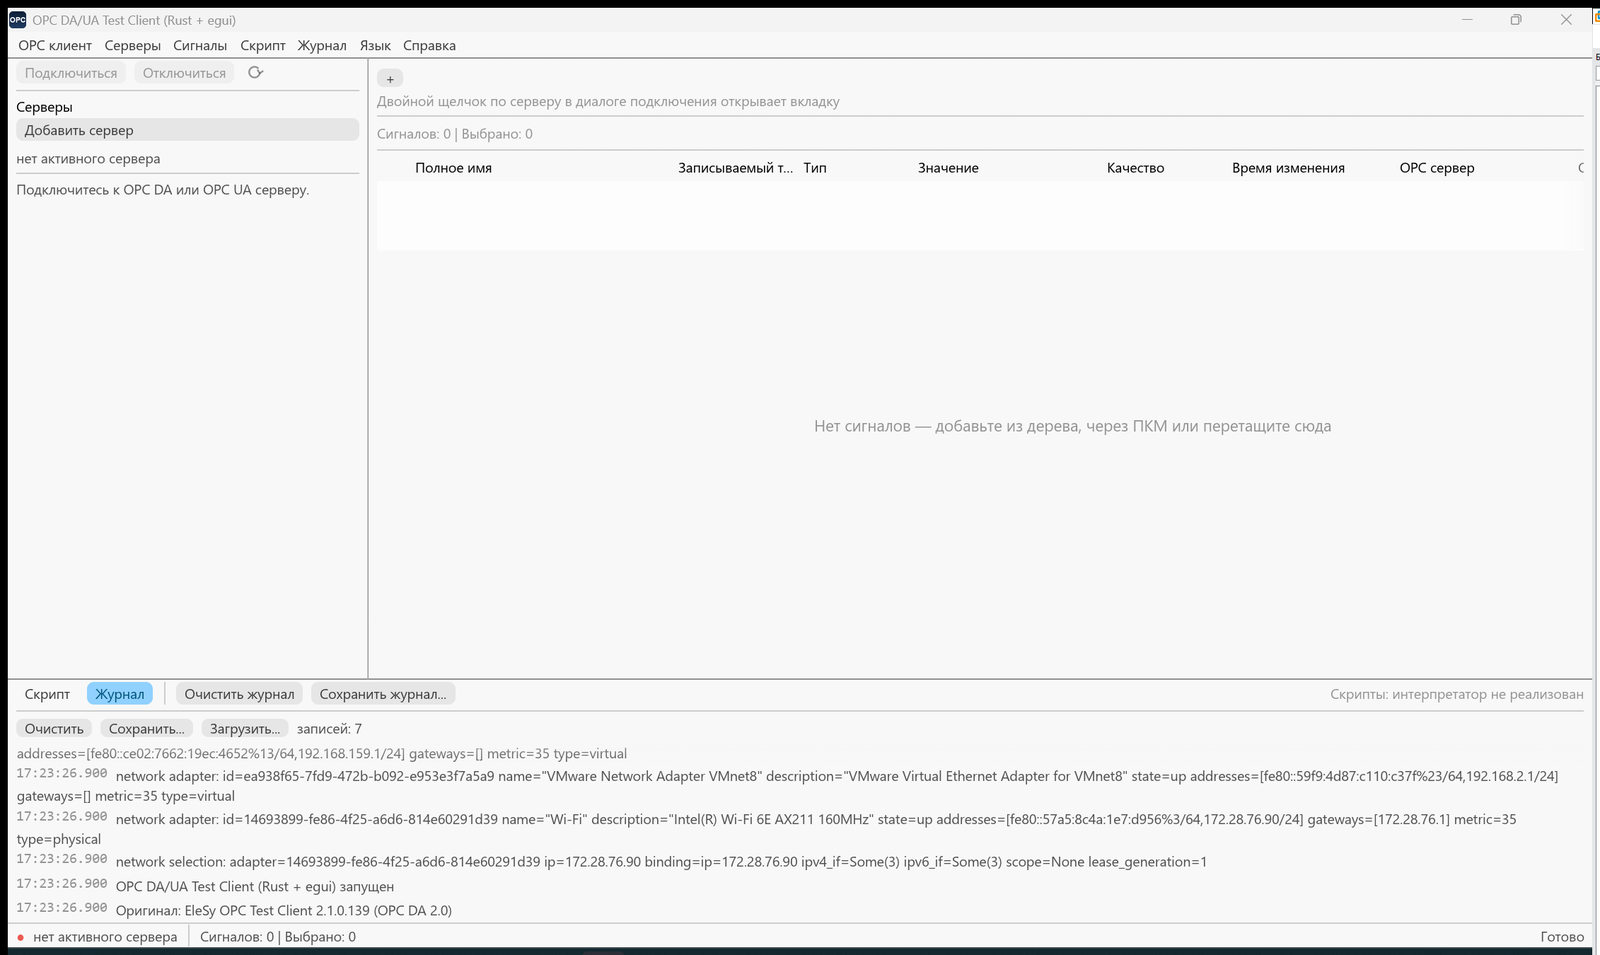
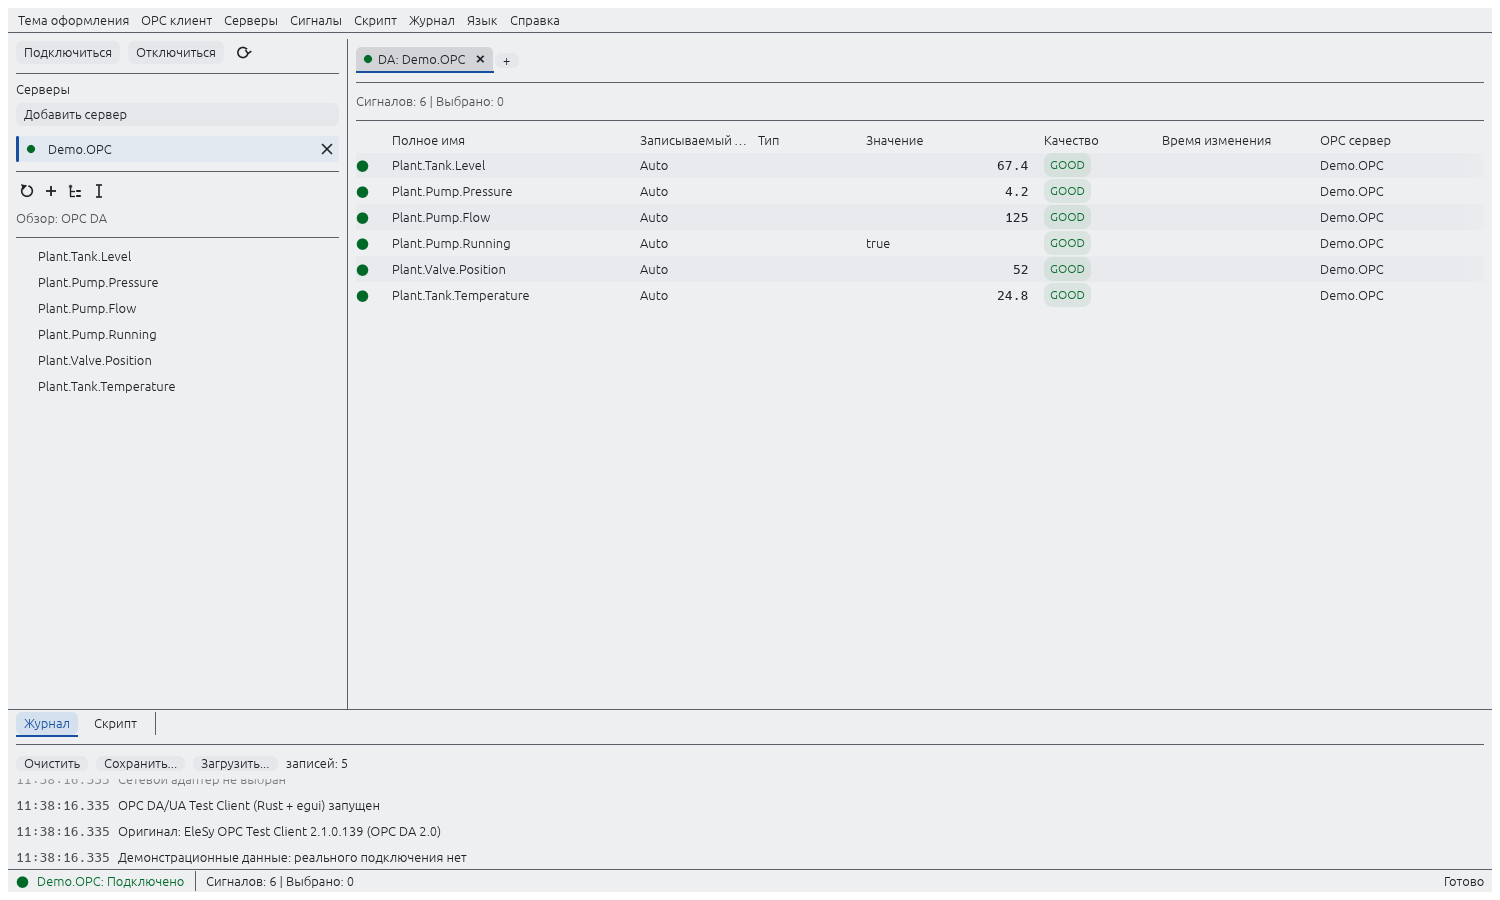
DOCS: refresh README application screenshot

diff --git a/tests/readme_screenshot.rs b/tests/readme_screenshot.rs
@@ -1,0 +1,72 @@
+#![cfg(feature = "ui-snapshots")]
+//! Reproducible README image: the app is rendered with synthetic fixture data.
+use egui_kittest::Harness;
+use opcda_egui::app::App;
+use opcda_egui::bff::model::{BrowseNode, EndpointSpec, NodeKind, SessionId, Value};
+use opcda_egui::i18n::Lang;
+use opcda_egui::settings::Theme;
+
+#[test]
+#[ignore = "manual visual QA requiring a headless wgpu renderer"]
+fn render_readme_main_window() {
+    let mut app = App::new_test(&egui::Context::default());
+    app.settings.set_lang(Lang::Ru);
+    app.settings.view.options.theme = Theme::Light;
+    app.settings.view.options.update_interval_secs = 86_400;
+    app.settings.view.options.test_interval_secs = 0;
+    app.settings.view.options.auto_reconnect = false;
+    let session = SessionId::new(1).unwrap();
+    app.seed_session(session, EndpointSpec::da("", "Demo.OPC"));
+    for (id, name, value) in [
+        ("Plant.Tank.Level", "Plant.Tank.Level", Value::F64(67.4)),
+        (
+            "Plant.Pump.Pressure",
+            "Plant.Pump.Pressure",
+            Value::F64(4.2),
+        ),
+        ("Plant.Pump.Flow", "Plant.Pump.Flow", Value::F64(125.0)),
+        (
+            "Plant.Pump.Running",
+            "Plant.Pump.Running",
+            Value::Bool(true),
+        ),
+        (
+            "Plant.Valve.Position",
+            "Plant.Valve.Position",
+            Value::F64(52.0),
+        ),
+        (
+            "Plant.Tank.Temperature",
+            "Plant.Tank.Temperature",
+            Value::F64(24.8),
+        ),
+    ] {
+        app.seed_writable_row(session, id, name, value);
+        app.seed_tree_item(
+            session,
+            None,
+            0,
+            BrowseNode {
+                node_id: id.to_owned(),
+                name: name.to_owned(),
+                kind: NodeKind::Item,
+                has_children: false,
+            },
+        );
+    }
+    app.journal
+        .info("Демонстрационные данные: реального подключения нет");
+    let mut h = Harness::builder()
+        .with_size([1500.0, 900.0])
+        .with_accessibility_check(false)
+        .with_render_cursor(false)
+        .with_context_setup(|ctx| {
+            assert!(opcda_egui::app::install_fonts(ctx).is_some());
+        })
+        .build_ui_state(|ui, app: &mut App| app.update(ui), app);
+    h.run_steps(8);
+    h.render()
+        .unwrap()
+        .save("docs/images/main-window.png")
+        .unwrap();
+}

diff --git a/docs/images/README.md b/docs/images/README.md
@@ -1,0 +1,17 @@
+# Изображения проекта
+
+`main-window.png` — headless-рендер настоящего интерфейса OPCLook на Linux с
+синтетическими данными. Подключение, сервер и значения в снимке созданы
+тестовыми средствами; снимок не подтверждает подключение к OPC-серверу и не
+является снимком Windows.
+
+Для повторного создания снимка из корня репозитория нужен рабочий headless
+wgpu-рендерер и установленные зависимости приложения:
+
+```sh
+cargo test --target x86_64-unknown-linux-gnu --features ui-snapshots \
+  --test readme_screenshot -- --ignored --nocapture
+```
+
+Тест перезаписывает `docs/images/main-window.png`. Имя сервера и значения в
+исходном сценарии являются примерами и не содержат адресов или учётных данных.
